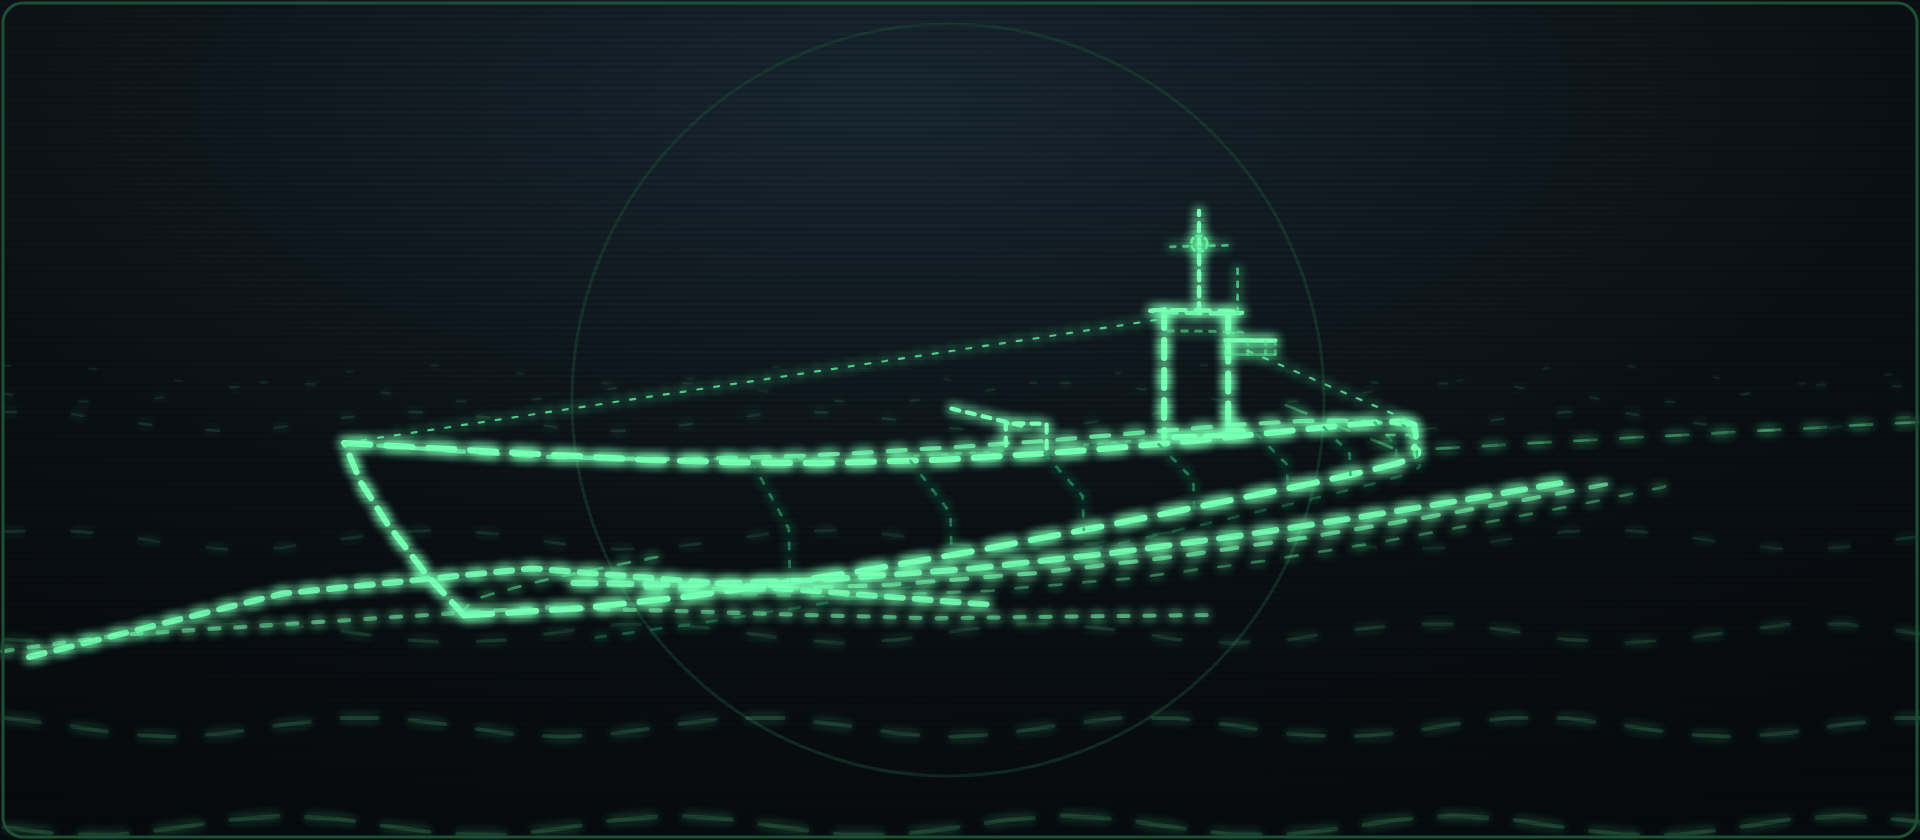
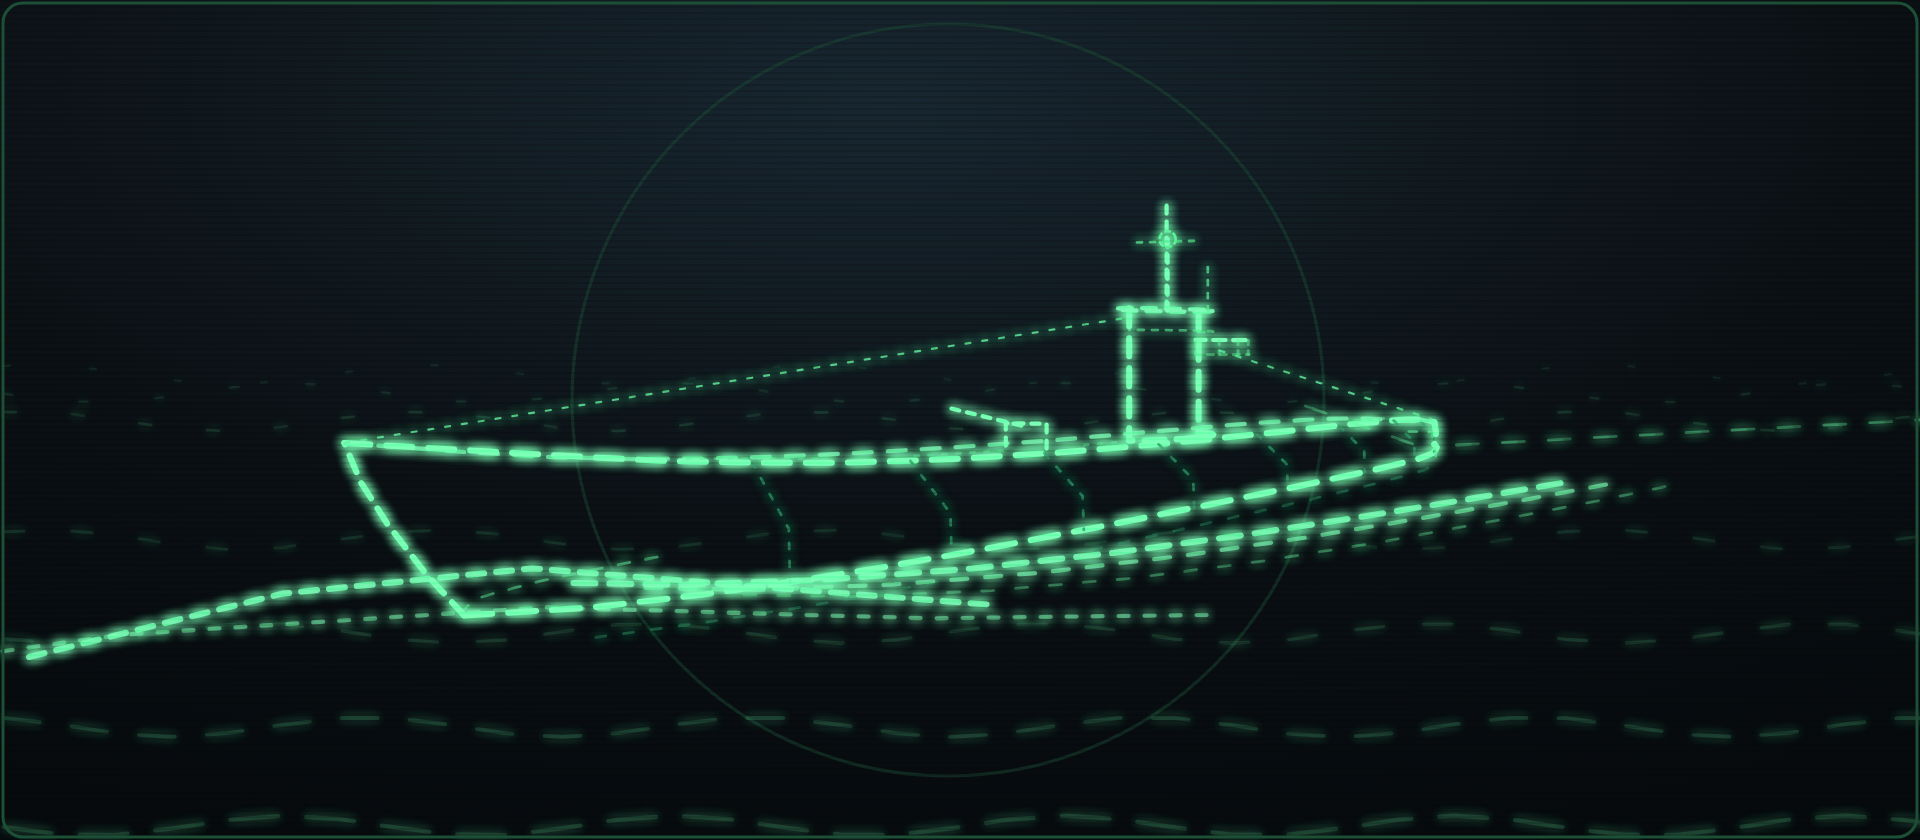
Achterschiff um vier Meter gestreckt statt Kamera umgebaut
Die Kameraeinstellung des Markenbilds bleibt, wie sie war. Stattdessen
reicht der Rumpf jetzt bis 71 m statt 67, und der Turm sitzt drei Meter
weiter vorn. Damit liegen 26 Prozent der sichtbaren Laenge hinter dem
Turm statt 22. Gilt fuer beide Formate, sie teilen das Rumpfmodell.

Changed region(s): [[0.5625, 0.2167, 1.0, 0.5571], [0.4688, 0.4024, 0.5, 0.4333], [0.4062, 0.4333, 0.4375, 0.4643]]

diff --git a/_uboot3d.py b/_uboot3d.py
@@ -7,8 +7,10 @@ Bug nah und links unten, Rumpf verkuerzt sich nach rechts hinten zum Horizont.
 import io, math
 
 # ---------------------------------------------------------------- Rumpfdaten
-# x = Laengsachse in Metern, 0 = Bug, 67.1 = Heck (Typ VII/C)
-XS = [0,   3,   6,   10,  15,  22,  30,  40,  48,  55,  60,  64,  67]
+# x = Laengsachse in Metern, 0 = Bug, Heck bei 71 (VII/C ist 67 lang,
+# das Achterschiff ist bewusst um vier Meter gestreckt, sonst wirkt die
+# Silhouette aus der Entfernung wie ein Frachter)
+XS = [0,   3,   6,   10,  15,  22,  30,  40,  50,  58,  63,  67.5, 71]
 WD = [0,  1.0, 1.5, 1.9, 2.1, 2.2, 2.2, 2.2, 2.1, 1.8, 1.3, 0.7, 0]   # Deckskasten, halbe Breite
 ZD = [3.4, 3.0, 2.7, 2.45,2.25,2.1, 2.0, 1.95,1.9, 1.8, 1.65,1.4, 1.2] # Deckshoehe ueber Wasser
 WH = [0,  1.6, 2.4, 3.0, 3.3, 3.45,3.45,3.4, 3.2, 2.8, 2.1, 1.1, 0]   # Rumpf an der Wasserlinie
@@ -36,9 +38,9 @@ import sys
 PRESET = sys.argv[1] if len(sys.argv) > 1 else 'tele'
 if PRESET == 'quadrat':      # Markenbild 500x500
     W, H = 500, 500
-    CX, CY, F, EYE, PHI, BX, BY = 280.0, 255.0, 1100.0, 5.0, math.radians(34), -16.0, 75.0
+    CX, CY, F, EYE, PHI, BX, BY = 285.0, 215.0, 700.0, 5.0, math.radians(25), -10.5, 33.0
     RING = (250, 250, 200)
-    SEA_F, SEA_N = (900, 500, 300), (62, 45, 34, 27, 23)
+    SEA_F, SEA_N = (400, 220, 130), (52, 34, 25, 19.5, 15.5)
 elif PRESET == 'tele':       # Teleperspektive
     W, H = 960, 420
     CX, CY, F, EYE, PHI, BX, BY = 452.0, 176.0, 3000.0, 5.0, math.radians(32), -14.4, 130.0
@@ -72,11 +74,11 @@ def add(cls, dash, d, extra=''):
     P.append('<path class="%s" stroke-dasharray="%s" %s d="%s"/>' % (cls, dash, extra, d))
 
 # Deckskante Backbord (uns zugewandt) und Steuerbord (abgewandt)
-add('near', '13 8', path(curve(lambda x: (xd(x),  wd(x), zd(x)), 0, 67)))
-add('mid',  '9 8',  path(curve(lambda x: (xd(x), -wd(x), zd(x)), 0, 67)), 'opacity=".72"')
+add('near', '13 8', path(curve(lambda x: (xd(x),  wd(x), zd(x)), 0, 71)))
+add('mid',  '9 8',  path(curve(lambda x: (xd(x), -wd(x), zd(x)), 0, 71)), 'opacity=".72"')
 
 # Wasserlinie Backbord, dazu ein Stueck Steuerbord am Bug
-add('near', '14 8', path(curve(lambda x: (xw(x),  wh(x), 0), 0, 67)))
+add('near', '14 8', path(curve(lambda x: (xw(x),  wh(x), 0), 0, 71)))
 add('far',  '6 8',  path(curve(lambda x: (xw(x), -wh(x), 0), 0, 11)), 'opacity=".5"')
 
 # Steven: senkrechte Kante am Bug
@@ -84,11 +86,11 @@ add('near', '9 6', path([proj(xw(0), 0, 0), proj(0.35, 0, 0.9), proj(-0.55, 0, 1
                          proj(-1.15, 0, 2.7), proj(xd(0), 0, 3.4)]))
 
 # Satteltankwulst, knapp unter der Oberflaeche
-add('deep', '5 9', path(curve(lambda x: (x, wh(x)*1.06, -0.55), 3, 62)), 'opacity=".42"')
+add('deep', '5 9', path(curve(lambda x: (x, wh(x)*1.06, -0.55), 3, 66)), 'opacity=".42"')
 
 # Spanten: Deckskante -> Bordwand -> Wasserlinie
 sp = []
-for x in (8, 14, 21, 29, 38, 46, 54, 60):
+for x in (8, 14, 21, 29, 38, 48, 57, 64):
     sp.append(path([proj(x, wd(x), zd(x)),
                     proj(x, wh(x)*0.99, zd(x)*0.45),
                     proj(x, wh(x), 0)]))
@@ -97,7 +99,7 @@ P.append('<g class="deep" stroke-dasharray="3 6" opacity=".7">%s</g>'
 
 # Decksluken laengs
 lu = []
-for x0, x1 in ((7, 12), (16, 21), (26, 31), (50, 55)):
+for x0, x1 in ((7, 12), (16, 21), (26, 31), (54, 59)):
     lu.append(path([proj(x0, wd(x0)*0.45, zd(x0)+0.05),
                     proj(x1, wd(x1)*0.45, zd(x1)+0.05)]))
 P.append('<g class="far" stroke-dasharray="2 5" opacity=".45">%s</g>'
@@ -110,7 +112,7 @@ add('mid', '4 4', path([proj(gx, 0.7, zd(gx)), proj(gx, 0.7, zd(gx)+0.75),
 add('mid', '4 4', path([proj(gx-0.3, 0, zd(gx)+0.7), proj(gx-4.6, 0, zd(gx)+1.35)]))
 
 # ---- Turm: ovaler Grundriss, kleiner als vorher
-xc, tl, tb, tz = 37.6, 3.1, 1.35, 6.5
+xc, tl, tb, tz = 34.6, 3.1, 1.35, 6.5
 zt = zd(xc)
 def tp(t, z):                      # Punkt auf dem Turmoval
     return proj(xc + tl*math.cos(t), tb*math.sin(t), z)
@@ -141,16 +143,16 @@ P.append('<g class="far" stroke-dasharray="2 3" opacity=".5">%s</g>'
          % ''.join('<path d="%s"/>' % r for r in rl))
 
 # ---- Sehrohre, Peilrahmen, Antennenmast
-add('mid', '4 4', path([proj(36.9, 0.35, tz), proj(36.9, 0.35, 10.2)]))
-add('mid', '4 4', path([proj(38.6, -0.35, tz), proj(38.6, -0.35, 9.1)]))
-add('far', '2.5 4', path([proj(39.9, 0.7, tz), proj(39.9, 0.7, 8.4)]), 'opacity=".7"')
-add('far', '2.5 4', path([proj(36.9, -0.8, 8.9), proj(36.9, 1.5, 8.9)]), 'opacity=".7"')
-bx, by = proj(38.6, -0.35, 9.1)
+add('mid', '4 4', path([proj(33.9, 0.35, tz), proj(33.9, 0.35, 10.2)]))
+add('mid', '4 4', path([proj(35.6, -0.35, tz), proj(35.6, -0.35, 9.1)]))
+add('far', '2.5 4', path([proj(36.9, 0.7, tz), proj(36.9, 0.7, 8.4)]), 'opacity=".7"')
+add('far', '2.5 4', path([proj(33.9, -0.8, 8.9), proj(33.9, 1.5, 8.9)]), 'opacity=".7"')
+bx, by = proj(35.6, -0.35, 9.1)
 P.append('<circle cx="%.1f" cy="%.1f" r="4" class="far" stroke-dasharray="2.2 2.2"/>' % (bx, by))
 
 # ---- Netzabweiser
 add('wire', '2.5 6', path([proj(xd(0), 0, 3.4), proj(xc-tl+0.2, 0, tz-0.3)]), 'opacity=".8"')
-add('wire', '2.5 6', path([proj(w0+2.4, 0, wz-0.4), proj(66.4, 0, 1.4)]), 'opacity=".8"')
+add('wire', '2.5 6', path([proj(w0+2.4, 0, wz-0.4), proj(70.4, 0, 1.4)]), 'opacity=".8"')
 
 # ---------------------------------------------------------------- Bugsee
 bw = []
@@ -171,12 +173,12 @@ bw.append('<path class="mid" stroke-dasharray="5 8" opacity=".5" d="%s"/>' % pat
 P.append(''.join(bw))
 
 # ---- Heck: Deckskante und Wasserlinie laufen in der Spitze zusammen
-add('near', '6 5', path([proj(67, 0, zd(67)), proj(67.3, 0, 0.6), proj(xw(67), 0, 0)]))
+add('near', '6 5', path([proj(71, 0, zd(71)), proj(71.3, 0, 0.6), proj(xw(71), 0, 0)]))
 
 # ---- Achterschiff: Auslauf und Ruderblatt
-add('mid', '7 6', path([proj(60, wd(60), zd(60)), proj(64, wd(64)*0.8, zd(64)),
-                        proj(67, 0, 1.2)]), 'opacity=".85"')
-add('far', '4 6', path([proj(62, 0, 0.9), proj(66.5, 0, 0.7), proj(67.4, 0, -0.9)]),
+add('mid', '7 6', path([proj(64, wd(64), zd(64)), proj(68, wd(68)*0.8, zd(68)),
+                        proj(71, 0, 1.2)]), 'opacity=".85"')
+add('far', '4 6', path([proj(66, 0, 0.9), proj(70.5, 0, 0.7), proj(71.4, 0, -0.9)]),
     'opacity=".6"')
 
 # ---------------------------------------------------------------- Kielwasser
@@ -184,7 +186,7 @@ kw = []
 for sgn, op, dash in ((1, '.3', '11 12'), (-1, '.3', '11 12'),
                       (1, '.16', '7 16'), (-1, '.16', '7 16')):
     spread = 1.6 if abs(op == '.4') else 3.4
-    pts = [proj(67 + i*9.0, sgn*(1.2 + i*(2.2 if op == '.4' else 4.0)), 0)
+    pts = [proj(71 + i*9.0, sgn*(1.2 + i*(2.2 if op == '.4' else 4.0)), 0)
            for i in range(10)]
     kw.append('<path class="far" stroke-dasharray="%s" opacity="%s" d="%s"/>'
               % (dash, op, path(pts)))
